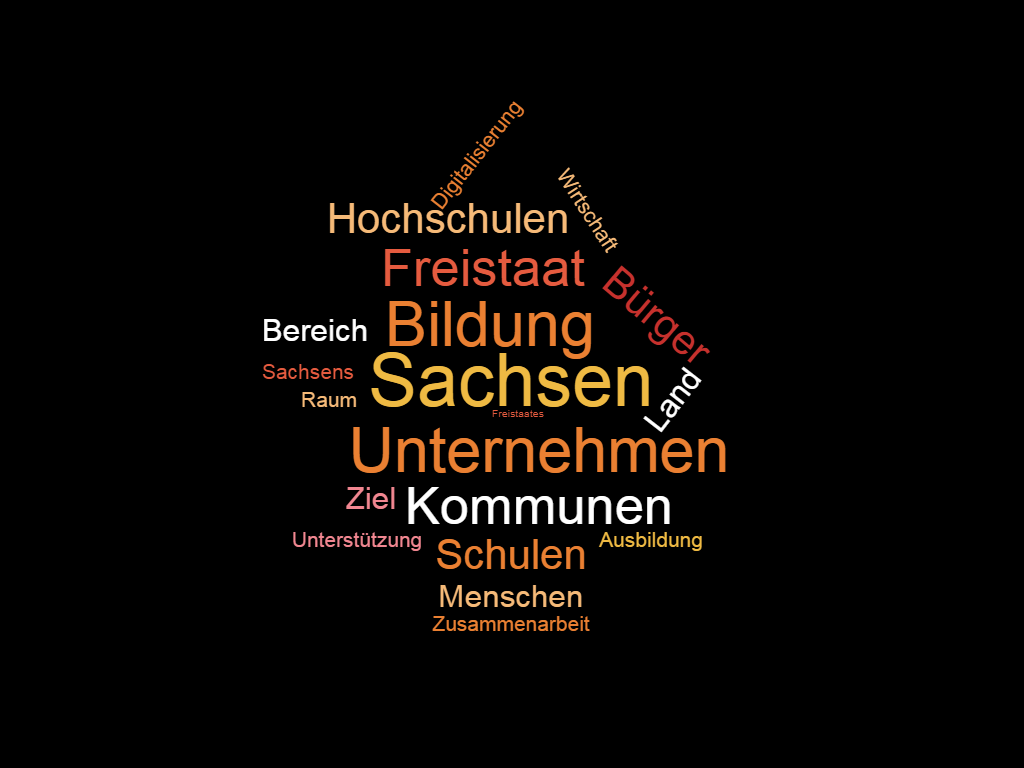
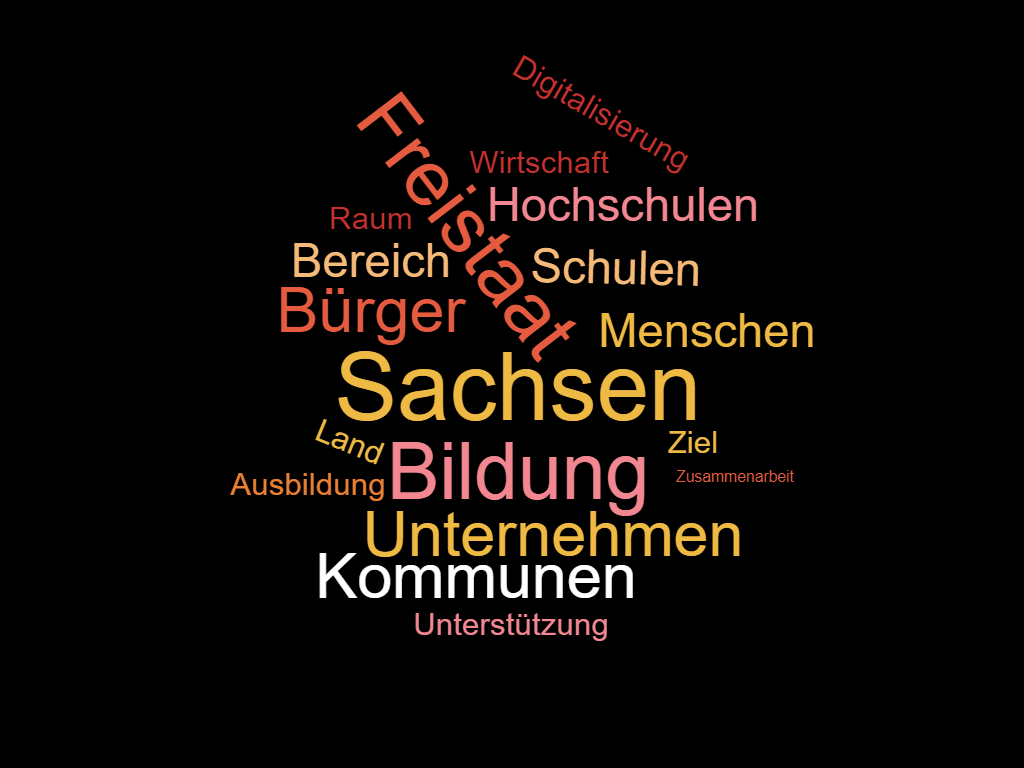
add stemming

Changed region(s): [[0.2188, 0.125, 0.8125, 0.8438], [0.5, 0.0625, 0.5938, 0.1562], [0.5938, 0.1562, 0.6875, 0.2188]]

diff --git a/docs/index.html b/docs/index.html
@@ -23,10 +23,9 @@
         </tr>
       </thead>
       <tbody>
-        <tr><td>310</td><td><mark>Sachsen</mark></td></tr>
+        <tr><td>310</td><td>Sachsen</td></tr>
+<tr><td>199</td><td>GRÜNE</td></tr>
 <tr><td>149</td><td>Menschen</td></tr>
-<tr><td>82</td><td>GRÜNE</td></tr>
-<tr><td>79</td><td>GRÜN</td></tr>
 <tr><td>75</td><td>Freistaat</td></tr>
 <tr><td>64</td><td>Förderung</td></tr>
 <tr><td>62</td><td>Landwirtschaft</td></tr>
@@ -42,7 +41,6 @@
 <tr><td>39</td><td>Polizei</td></tr>
 <tr><td>39</td><td>Bürgerinnen</td></tr>
 <tr><td>39</td><td>Gesellschaft</td></tr>
-<tr><td>38</td><td>GRÜNEN</td></tr>
       </tbody>
     </table>
 	<hr>
@@ -56,7 +54,7 @@
         </tr>
       </thead>
       <tbody>
-        <tr><td>147</td><td><mark>Sachsen</mark></td></tr>
+        <tr><td>179</td><td>Sachsen</td></tr>
 <tr><td>54</td><td>Menschen</td></tr>
 <tr><td>51</td><td>Wege</td></tr>
 <tr><td>48</td><td>Ziele</td></tr>
@@ -65,7 +63,6 @@
 <tr><td>40</td><td>Zukunft</td></tr>
 <tr><td>40</td><td>Land</td></tr>
 <tr><td>34</td><td>Arbeit</td></tr>
-<tr><td>32</td><td>Sachsens</td></tr>
 <tr><td>32</td><td>Bildung</td></tr>
 <tr><td>31</td><td>Raum</td></tr>
 <tr><td>30</td><td>Entwicklung</td></tr>
@@ -89,11 +86,11 @@
         </tr>
       </thead>
       <tbody>
-        <tr><td>333</td><td><mark>Sachsen</mark></td></tr>
+        <tr><td>333</td><td>Sachsen</td></tr>
 <tr><td>149</td><td>Menschen</td></tr>
+<tr><td>121</td><td>Schulen</td></tr>
 <tr><td>91</td><td>Kinder</td></tr>
 <tr><td>74</td><td>Jahren</td></tr>
-<tr><td>74</td><td>Schulen</td></tr>
 <tr><td>71</td><td>Unternehmen</td></tr>
 <tr><td>68</td><td>Land</td></tr>
 <tr><td>65</td><td>Gesellschaft</td></tr>
@@ -103,7 +100,6 @@
 <tr><td>54</td><td>Arbeit</td></tr>
 <tr><td>51</td><td>Zukunft</td></tr>
 <tr><td>51</td><td>Kommunen</td></tr>
-<tr><td>47</td><td>Schule</td></tr>
 <tr><td>46</td><td>Unterstützung</td></tr>
 <tr><td>46</td><td>Mittel</td></tr>
 <tr><td>45</td><td>STÄRKEN</td></tr>
@@ -122,7 +118,7 @@
         </tr>
       </thead>
       <tbody>
-        <tr><td>238</td><td><mark>Sachsen</mark></td></tr>
+        <tr><td>238</td><td>Sachsen</td></tr>
 <tr><td>159</td><td>Menschen</td></tr>
 <tr><td>61</td><td>Freistaat</td></tr>
 <tr><td>61</td><td>Kommunen</td></tr>
@@ -155,10 +151,10 @@
         </tr>
       </thead>
       <tbody>
-        <tr><td>215</td><td><mark>Sachsen</mark></td></tr>
+        <tr><td>246</td><td>Sachsen</td></tr>
+<tr><td>88</td><td>Freistaat</td></tr>
 <tr><td>66</td><td>Bildung</td></tr>
 <tr><td>60</td><td>Unternehmen</td></tr>
-<tr><td>59</td><td>Freistaat</td></tr>
 <tr><td>54</td><td>Bürger</td></tr>
 <tr><td>54</td><td>Kommunen</td></tr>
 <tr><td>53</td><td>Schulen</td></tr>
@@ -171,10 +167,8 @@
 <tr><td>32</td><td>Wirtschaft</td></tr>
 <tr><td>32</td><td>Raum</td></tr>
 <tr><td>31</td><td>Digitalisierung</td></tr>
-<tr><td>31</td><td>Sachsens</td></tr>
 <tr><td>31</td><td>Unterstützung</td></tr>
 <tr><td>30</td><td>Zusammenarbeit</td></tr>
-<tr><td>29</td><td>Freistaates</td></tr>
       </tbody>
     </table>
 	<hr>
@@ -188,9 +182,8 @@
         </tr>
       </thead>
       <tbody>
-        <tr><td>162</td><td><mark>AfD</mark></td></tr>
-<tr><td>134</td><td>Sachsen</td></tr>
-<tr><td>75</td><td>SACHSEN</td></tr>
+        <tr><td>209</td><td>Sachsen</td></tr>
+<tr><td>162</td><td>AfD</td></tr>
 <tr><td>48</td><td>Kinder</td></tr>
 <tr><td>38</td><td>REGIERUNGSPROGRAMM</td></tr>
 <tr><td>38</td><td>Deutschland</td></tr>

diff --git a/SachsenWahl2019/SachsenWahl2019/Program.cs b/SachsenWahl2019/SachsenWahl2019/Program.cs
@@ -4,6 +4,8 @@ using System.IO;
 using System.Linq;
 using System.Text.RegularExpressions;
 
+using Annytab.Stemmer;
+
 namespace SachsenWahl2019
 {
     public class Program
@@ -15,7 +17,7 @@ namespace SachsenWahl2019
             var whitespaceRegex = new Regex(@"\s");
             var stopWords = File.ReadAllLines(@"C:\Projects\SachsenWahl2019\stopwords.txt");
 
-            var content = File.ReadAllText(@"C:\Projects\SachsenWahl2019\Sachsen-SPD.MD");
+            var content = File.ReadAllText(@"C:\Projects\SachsenWahl2019\Manifestos\Sachsen-SPD.MD");
             content = content.Replace("-\n", "").Replace("-\r", "").Replace("\n", " ").Replace("\r", " ");
             content = whitespaceRegex.Replace(content, " ");
             var tokenized = new List<string>(
@@ -36,7 +38,23 @@ namespace SachsenWahl2019
 
             var orderedCounts = counts.Where(c => char.IsUpper(c.Key.First())).Select(c => c.Value).OrderByDescending(c => c).ToArray();
             var most20Number = orderedCounts.Take(20).Last();
-            var mostCounts = counts.Where(c => c.Value >= most20Number && char.IsUpper(c.Key.First())).OrderByDescending(c => c.Value).ToArray();
+            var mostCounts = counts.Where(c => c.Value >= most20Number && char.IsUpper(c.Key.First())).OrderByDescending(c => c.Value).ToList();
+            var germanStemmer = new GermanStemmer();
+            for (var index = mostCounts.Count - 1; index > 0; index--)
+            {
+                for (var innerIndex = index - 1; innerIndex >= 0; innerIndex--)
+                {
+                    if (germanStemmer.GetSteamWord(mostCounts[index].Key) == germanStemmer.GetSteamWord(mostCounts[innerIndex].Key))
+                    {
+                        mostCounts[innerIndex] = new KeyValuePair<string, int>(mostCounts[innerIndex].Key, mostCounts[innerIndex].Value + mostCounts[index].Value);
+                        mostCounts.RemoveAt(index);
+                        break;
+                    }
+                }
+            }
+
+            mostCounts = mostCounts.OrderByDescending(c => c.Value).ToList();
+
             var printed = string.Join("\n", mostCounts.Select(m => m.Value + " " + m.Key));
 
             Console.WriteLine(printed);

diff --git a/Readme.md b/Readme.md
@@ -7,6 +7,7 @@ Shows word clouds of the manifestos
 * Converting pdfs to MD via [pdf2md](http://pdf2md.morethan.io/)
 * Tokenizing
 * Removing stopwords
+* Stemming
 * Creating word cloud via [wortwolken.com](https://www.wortwolken.com/)
 
 :link: https://dominikherold.github.io/SachsenWahl2019/ :link:
